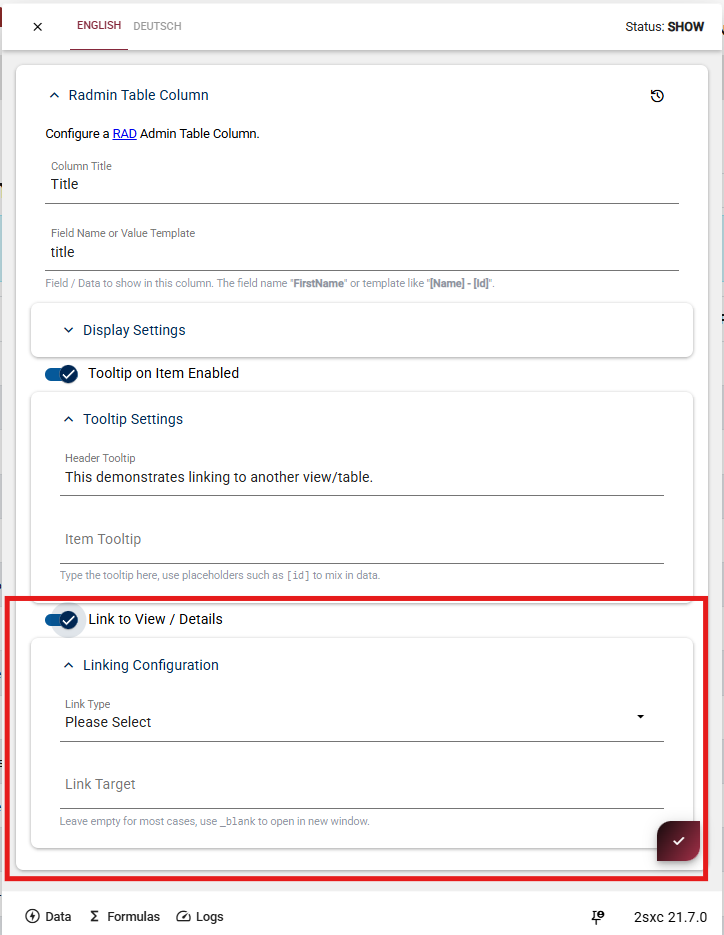
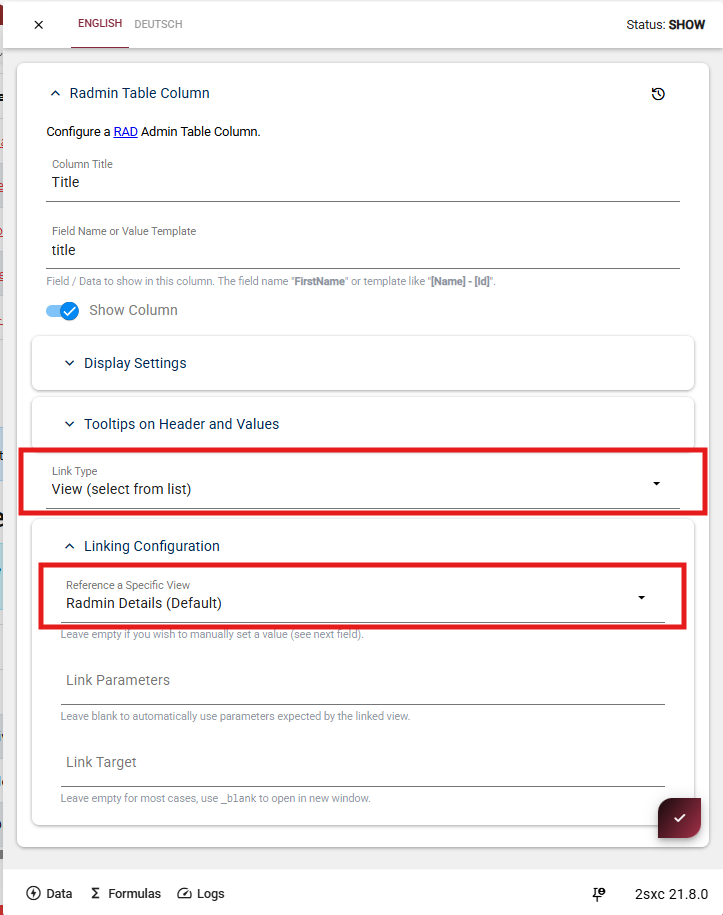
Merge pull request #53 from giiovi/radmin-documentation-clean
Radmin documentation clean

Pull request: Radmin documentation clean

diff --git a/docs-src/pages/extensions/app-extensions/by-2sxc/radmin/link-and-query/index.md b/docs-src/pages/extensions/app-extensions/by-2sxc/radmin/link-and-query/index.md
@@ -1,0 +1,122 @@
+---
+uid: Extensions.AppExtensions.By2sxc.Radmin.LinkAndQuery
+---
+
+# Link and Query Configuration
+
+Configure how your table handles data from queries and how users navigate between views using column links.
+
+## Query Configuration
+
+Use query mode when table data should come from a query instead of directly from a content type.
+
+### Open Data Configuration
+
+Open table configuration and go to **Data to Manage**.
+
+<div gallery="gallery-radmin-query-configuration-open">
+  <img src="./assets/table-toolbar.png">
+</div>
+
+You're now in the data configuration section.
+
+### Set Query Source
+
+Set **Data Query Name** to the query you want to use.
+
+<div gallery="gallery-radmin-query-configuration-settings">
+  <img src="./assets/query-config.png">
+</div>
+
+**Data Query Name**  
+The query that provides your table data.
+
+**Show Advanced Query Options**  
+Enable only if your query uses a custom stream or needs URL parameters.
+
+### Advanced Options (if needed)
+
+If you enabled advanced options, set:
+
+**Data Query - Stream Name**  
+Use when your query returns data on a stream other than the default.
+
+**Data Query - Parameters**  
+Use when your query expects values from URL or context.
+
+**Keep It Simple**  
+Keep advanced options empty unless needed, so the setup stays easy to maintain.
+
+### Link Column to View
+
+You can turn a column value into a link that opens another Radmin view.
+
+### Enable Linking
+
+Enable configuration mode in the toolbar.
+
+<div gallery="gallery-radmin-link-column-to-view-mode">
+  <img src="./assets/config-mode.png">
+</div>
+
+Hover over the target column header and click the edit icon.
+
+<div gallery="gallery-radmin-link-column-to-view-edit">
+  <img src="./assets/edit-column-toolbar.png">
+</div>
+
+You're now in the column editor.
+
+### Configure the Link
+
+In the column settings, scroll to the link area (highlighted below):
+
+1. Set **Link Type** to **View (select from list)**.
+2. In **Linking Configuration**, choose **Reference a Specific View** (example: `Posts Filtered`).
+3. Optional: Fill **Link Parameters** if you want to pass custom values.
+4. Optional: Set **Link Target** (leave empty for normal navigation, use `_blank` for a new tab).
+
+<div gallery="gallery-radmin-link-column-to-view-config">
+  <img src="./assets/column-link.png">
+</div>
+
+**Result**  
+After saving, clicking values in that column opens the linked target view.
+
+### Link Parameters
+
+Link parameters let you open another view already filtered to the clicked row.
+
+### Use Link Parameters
+
+After selecting the target view, use **Link Parameters** to pass values to that view.
+If you leave it empty, Radmin uses parameters expected by the linked view.
+
+<div gallery="gallery-radmin-link-parameters-config">
+  <img src="./assets/link-params.png">
+</div>
+
+**Parameter Format**  
+Use this pattern to pass values:
+
+`category=[key]`
+
+**What This Means**  
+
+- `category` is the parameter name that the target view expects
+- `[key]` is replaced with the actual value from the clicked row
+
+### See It in Action
+
+When users click the link, Radmin appends the resolved parameter to the URL.
+
+<div gallery="gallery-radmin-link-parameters-result">
+  <img src="./assets/filtered-result.png">
+</div>
+
+**Result**  
+The target view receives the parameter and can show only matching data.
+
+Next step:
+
+Continue with [](xref:Extensions.AppExtensions.By2sxc.Radmin.DetailView){title="Detail View"} for automatic item details.

diff --git a/docs-src/pages/extensions/app-extensions/by-2sxc/radmin/configure-columns/index.md b/docs-src/pages/extensions/app-extensions/by-2sxc/radmin/configure-columns/index.md
@@ -6,25 +6,46 @@ uid: Extensions.AppExtensions.By2sxc.Radmin.ConfigureColumns
 
 Use column configuration to control what users see and click in the table.
 
+## Enable Configuration Mode
+
 First enable **Configuration Mode** in the toolbar.
 
-<div gallery="gallery-radmin-table-column-configuration">
+<div gallery="gallery-radmin-table-column-configuration-mode">
   <img src="./assets/config-mode.png">
-  <img src="./assets/add-column.png">
-  <img src="./assets/column-settings.png">
-  <img src="./assets/move-columns.png">
 </div>
 
-When configuration mode is active, hover a header and use the plus icon to initialize that column.
+Once enabled, you can now edit columns.
+
+### Add and Configure Columns
+
+When configuration mode is active, hover a column header and use the plus icon to initialize that column.
+
+<div gallery="gallery-radmin-table-column-add">
+  <img src="./assets/add-column.png">
+  <img src="./assets/column-settings.png">
+</div>
 
 In the column settings dialog, configure:
 
-1. The displayed title.
-2. The field name.
-3. Position and options for that column.
+**Displayed Title**  
+The heading shown in the table for this column.
+
+**Field Name**  
+The data field this column displays.
+
+**Position and Options**  
+Control where the column appears and set any special behaviors.
+
+### Arrange and Verify
+
+After configuring columns, arrange them by dragging.
+
+<div gallery="gallery-radmin-table-column-arrange">
+  <img src="./assets/move-columns.png">
+</div>
 
 Save and verify the table now shows your preferred columns in the correct order.
 
-## Next Step
+Next step:
 
-Continue with [](xref:Extensions.AppExtensions.By2sxc.Radmin.QueryConfiguration){title="Query Configuration"} if your table should use query output.
+Continue with [](xref:Extensions.AppExtensions.By2sxc.Radmin.LinkAndQuery){title="Link and Query Configuration"} to set up linking between views.

diff --git a/docs-src/pages/extensions/app-extensions/by-2sxc/radmin/detail-view/index.md b/docs-src/pages/extensions/app-extensions/by-2sxc/radmin/detail-view/index.md
@@ -6,22 +6,31 @@ uid: Extensions.AppExtensions.By2sxc.Radmin.DetailView
 
 Radmin can automatically open an item's detail view when you click a configured column.
 
-<div gallery="gallery-radmin-detail-view">
-  <img src="./assets/config-mode-link.png">
-  <img src="./assets/edit-column.png">
-  <img src="./assets/link-dialog.png">
-</div>
+## Enable Configuration Mode
 
 Enable configuration mode and edit the column you want to make clickable.
 
-Enable **Link to View / Details**.
+<div gallery="gallery-radmin-detail-view-config">
+  <img src="./assets/config-mode-link.png">
+  <img src="./assets/edit-column.png">
+</div>
 
-If you do not select a specific target view, Radmin uses the detail view of the current item.
+You can now edit this column's linking behavior.
 
-This is a good default for beginner setups, because users can open a record quickly without additional view wiring.
+### Select the Details View
 
-The **Link Target** is usually left empty. Only set it when you need special behavior like opening in a new tab.
+In the column settings, set **Link Type** to **View (select from list)**, then choose **Radmin Details (Default)** in the **Reference a Specific View** dropdown.
 
-## Next Step
+<div gallery="gallery-radmin-detail-view-link">
+  <img src="./assets/link-dialog.png">
+</div>
 
-Continue with [](xref:Extensions.AppExtensions.By2sxc.Radmin.LinkParameters){title="Link Parameters"} to pass filters to target views.
+**Reference a Specific View**  
+Select **Radmin Details (Default)** to open the built-in detail view when the column is clicked.
+
+**Link Parameters (Optional)**  
+Leave empty to automatically use the parameters expected by the linked view.
+
+Next step:
+
+Continue with [](xref:Extensions.AppExtensions.By2sxc.Radmin.LinkAndQuery){title="Link and Query Configuration"} to set up advanced linking options.

diff --git a/docs-src/pages/extensions/app-extensions/by-2sxc/radmin/getting-started/index.md b/docs-src/pages/extensions/app-extensions/by-2sxc/radmin/getting-started/index.md
@@ -10,6 +10,11 @@ This guide shows the fastest way to get your first Radmin table running.
 
 Add a Radmin view to your page.
 
+<div gallery="gallery-radmin-add-view">
+  <img src="./assets/app-view.png">
+  <img src="./assets/app-radmin.png">
+</div>
+
 > [!TIP]
 > Since Radmin is meant to admin data,
 > it's best to add it to a page which is not visible to the public, and only accessible to admins.
@@ -18,25 +23,32 @@ Add a Radmin view to your page.
 > the table will not show any data to external users,
 > because the backend will refuse to deliver data unless specifically allowed to do so.
 
-<div gallery="gallery-radmin-add-view">
-  <img src="./assets/app-view.png">
-  <img src="./assets/app-radmin.png">
+### Configure Basic Values
+
+Open the view settings and configure the basic values:
+
+<div gallery="gallery-radmin-add-view-config">
   <img src="./assets/edit-view.png">
   <img src="./assets/configure-view.png">
 </div>
 
-Open the view settings and configure the basic values:
+**Title**  
+The heading shown above your table.
 
-1. A clear **Title**.
-2. A unique **View ID**.
-3. The initial data source in **Data to Manage**.
+**View ID**  
+A unique identifier for this Radmin setup.
 
-Then save.
+**Data to Manage**  
+The initial data source for your table.
+
+After setting these values, save the dialog.
+
+### View Your First Table
 
 When done, you should see your first working table.
 
 <img src="./assets/result.png">
 
-## Next Step
+Next step:
 
 Continue with [](xref:Extensions.AppExtensions.By2sxc.Radmin.ConfigureView){title="Configure View"} to understand each setup option.

diff --git a/docs-src/pages/extensions/app-extensions/by-2sxc/radmin/configure-table/index.md b/docs-src/pages/extensions/app-extensions/by-2sxc/radmin/configure-table/index.md
@@ -6,21 +6,36 @@ uid: Extensions.AppExtensions.By2sxc.Radmin.ConfigureTable
 
 The table settings control how users work with the list.
 
+## Open Configuration
+
+Open the table configuration section.
+
 <div gallery="gallery-radmin-table-configuration">
   <img src="./assets/edit-view.png">
   <img src="./assets/table-configure.png">
 </div>
 
-Open the table configuration section and adjust behavior step by step.
+### Configure Table Features
 
-In **Table Features**, you can configure search and paging.
+In **Table Features**, you can configure:
 
-In **Row Functionality**, you decide if users can add, edit, or delete items.
+- Search functionality
+- Paging options
 
-If you need special behavior, check **Advanced Features**.
+### Configure Row Functionality
 
-After saving, refresh your page and test the table interaction as an editor.
+In **Row Functionality**, decide if users can:
 
-## Next Step
+- Add new items
+- Edit existing items
+- Delete items
+
+### Advanced Features
+
+If you need special behavior, check **Advanced Features** for more options.
+
+After configuring all sections, save and refresh your page to test the table interaction as an editor.
+
+Next step:
 
 Continue with [](xref:Extensions.AppExtensions.By2sxc.Radmin.ConfigureColumns){title="Configure Columns"}.

diff --git a/docs-src/pages/extensions/app-extensions/by-2sxc/radmin/configure-view/index.md b/docs-src/pages/extensions/app-extensions/by-2sxc/radmin/configure-view/index.md
@@ -6,12 +6,14 @@ uid: Extensions.AppExtensions.By2sxc.Radmin.ConfigureView
 
 The view configuration defines what the Radmin table is and what data it should load.
 
+## General Settings
+
+Open the view settings dialog.
+
 <div gallery="gallery-radmin-configure-view">
   <img src="./assets/edit-view.png">
   <img src="./assets/configure-view.png">
 </div>
-
-Start with the general settings:
 
 **Title**  
 The heading shown above your table.
@@ -19,16 +21,21 @@ The heading shown above your table.
 **View ID**  
 A unique identifier for this Radmin setup. You will use this when linking to this view later.
 
-Then configure **Data to Manage**.
+### Data to Manage
 
-Radmin supports three common patterns:
+Configure your data source by selecting one of these patterns:
 
-1. **Content Type only**: manage all items of one content type.
-2. **Query only**: show data from a query result.
-3. **Content Type and Query**: read data from query, create new items with a selected content type.
+**Content Type only**  
+Manage all items of one content type.
 
-Save the dialog and check the table result on the page.
+**Query only**  
+Show data from a query result.
 
-## Next Step
+**Content Type and Query**  
+Read data from query, create new items with a selected content type.
+
+After configuring, save the dialog and check the table result on the page.
+
+Next step:
 
 Continue with [](xref:Extensions.AppExtensions.By2sxc.Radmin.ConfigureTable){title="Configure Table"}.

diff --git a/docs-src/pages/extensions/app-extensions/by-2sxc/radmin/index.md b/docs-src/pages/extensions/app-extensions/by-2sxc/radmin/index.md
@@ -21,10 +21,8 @@ Use it to create tables, link between them, show details, and much more, all wit
 * [Configure View](xref:Extensions.AppExtensions.By2sxc.Radmin.ConfigureView){title="icon:gear"}
 * [Configure Table](xref:Extensions.AppExtensions.By2sxc.Radmin.ConfigureTable){title="icon:table"}
 * [Configure Columns](xref:Extensions.AppExtensions.By2sxc.Radmin.ConfigureColumns){title="icon:layout-three-columns"}
-* [Query Configuration](xref:Extensions.AppExtensions.By2sxc.Radmin.QueryConfiguration){title="icon:funnel"}
-* [Link Column to View](xref:Extensions.AppExtensions.By2sxc.Radmin.LinkColumnToView){title="icon:link-45deg"}
+* [Link and Query Configuration](xref:Extensions.AppExtensions.By2sxc.Radmin.LinkAndQuery){title="icon:link-45deg"}
 * [Detail View](xref:Extensions.AppExtensions.By2sxc.Radmin.DetailView){title="icon:file-earmark-text"}
-* [Link Parameters](xref:Extensions.AppExtensions.By2sxc.Radmin.LinkParameters){title="icon:sliders"}
 
 ---
 